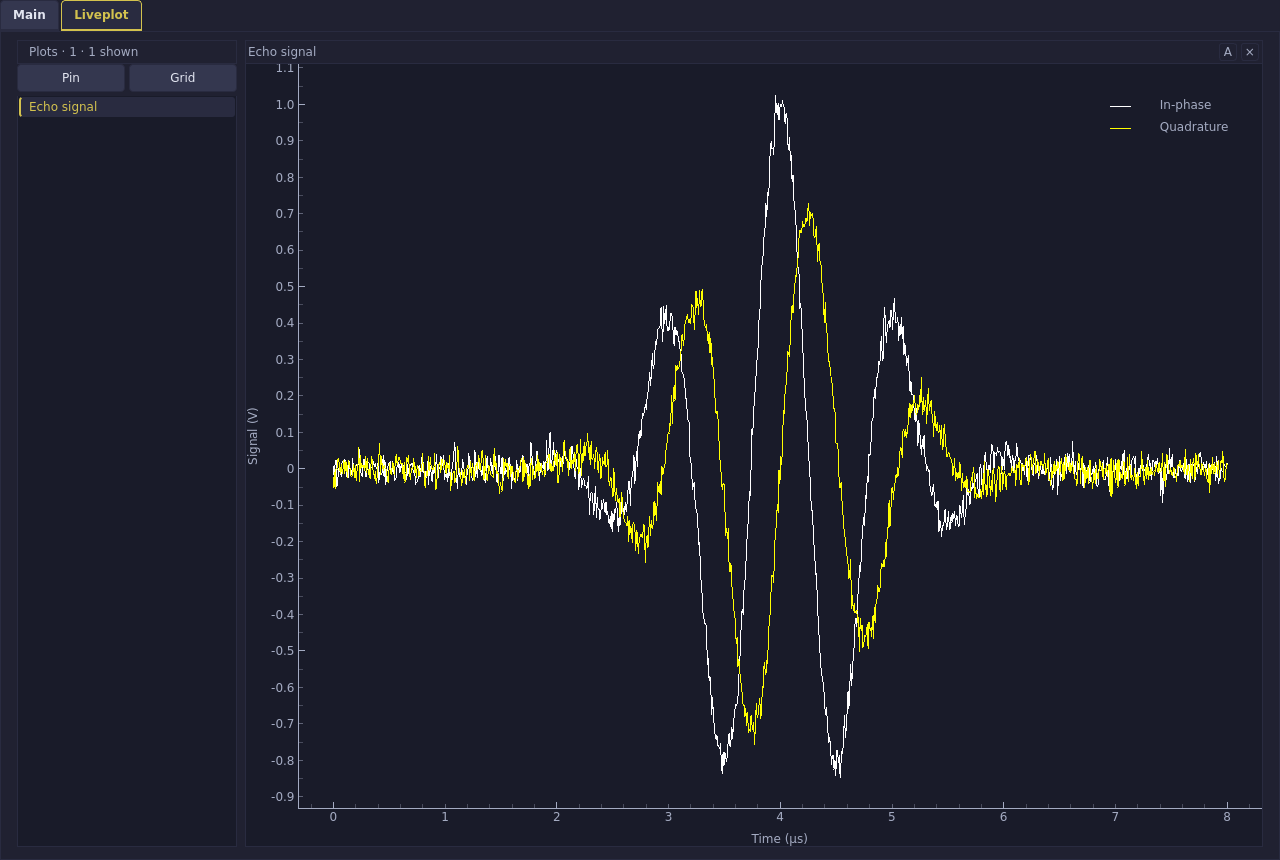
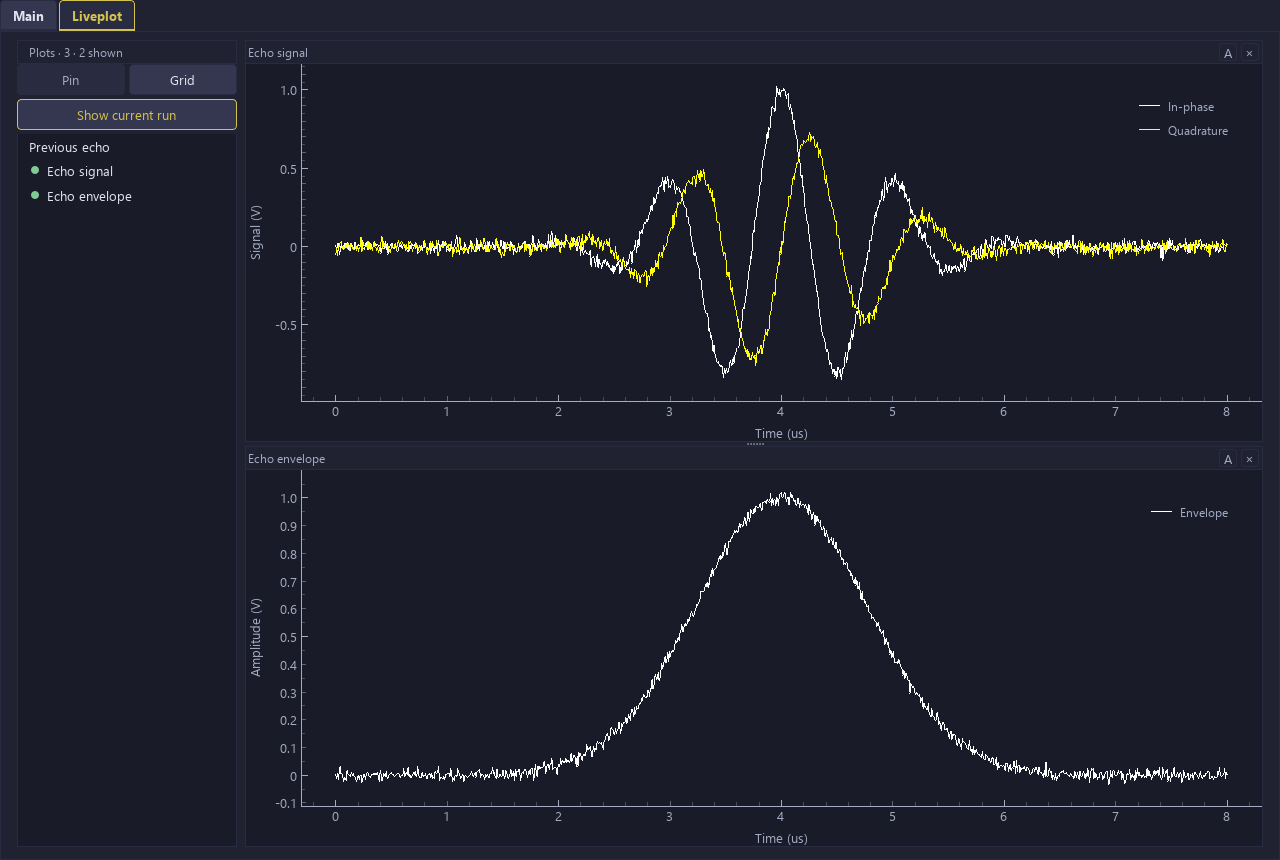
Refresh README screenshots for the current Liveplot interface
Capture the Main workspace, two live 1D plots, and a live 2D map using
synthetic demonstration data. Update image captions for the new controls.

Validation: reviewed all captures and checked Markdown whitespace.

diff --git a/readme.md b/readme.md
@@ -122,6 +122,6 @@ The current interface shown with synthetic demonstration data.
 
 ![Script editor and experiment queue](screenshots/screenshot.png)
 
-![Liveplot with two noisy 1D traces](screenshots/screenshot2.png)
+![Liveplot showing two live 1D plots with Show current run active](screenshots/screenshot2.png)
 
-![Liveplot with a noisy 2D echo map](screenshots/screenshot3.png)
+![Liveplot showing a live 2D echo map and its green-dot indicator](screenshots/screenshot3.png)
